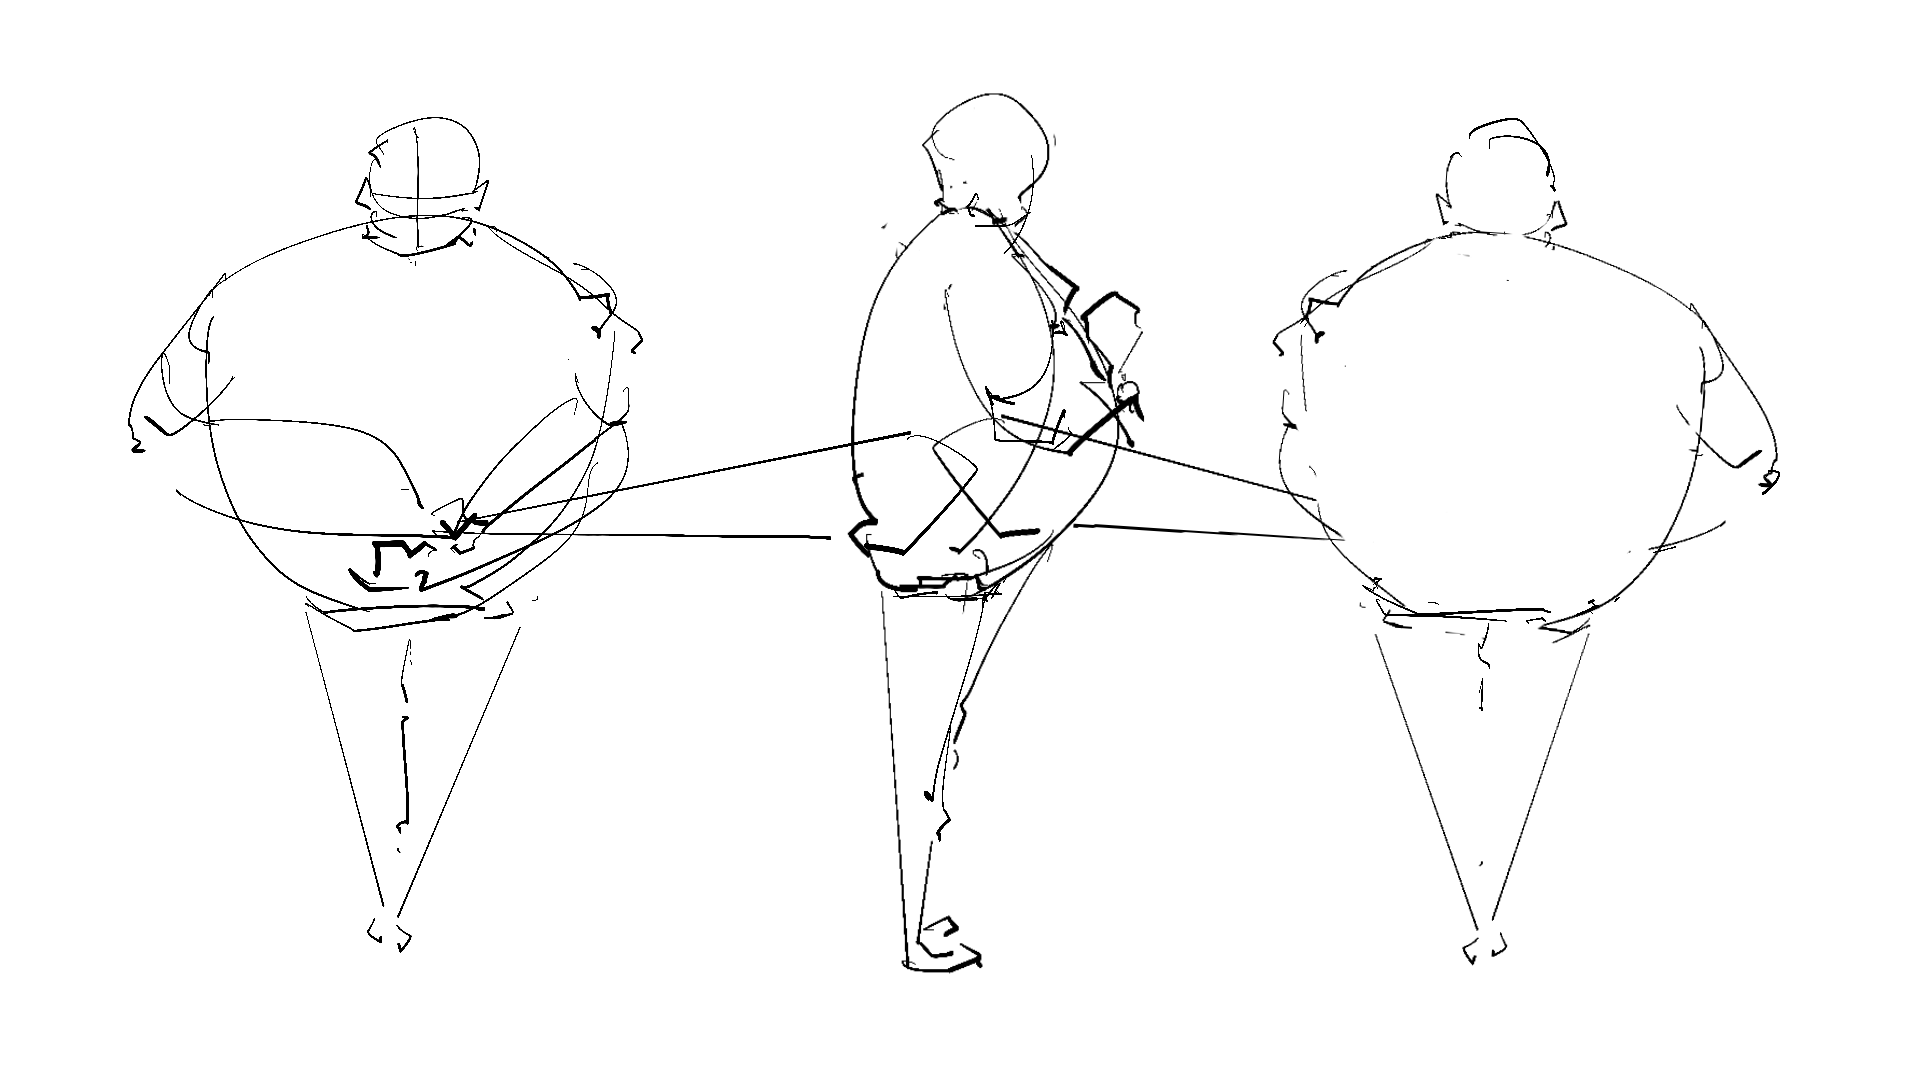
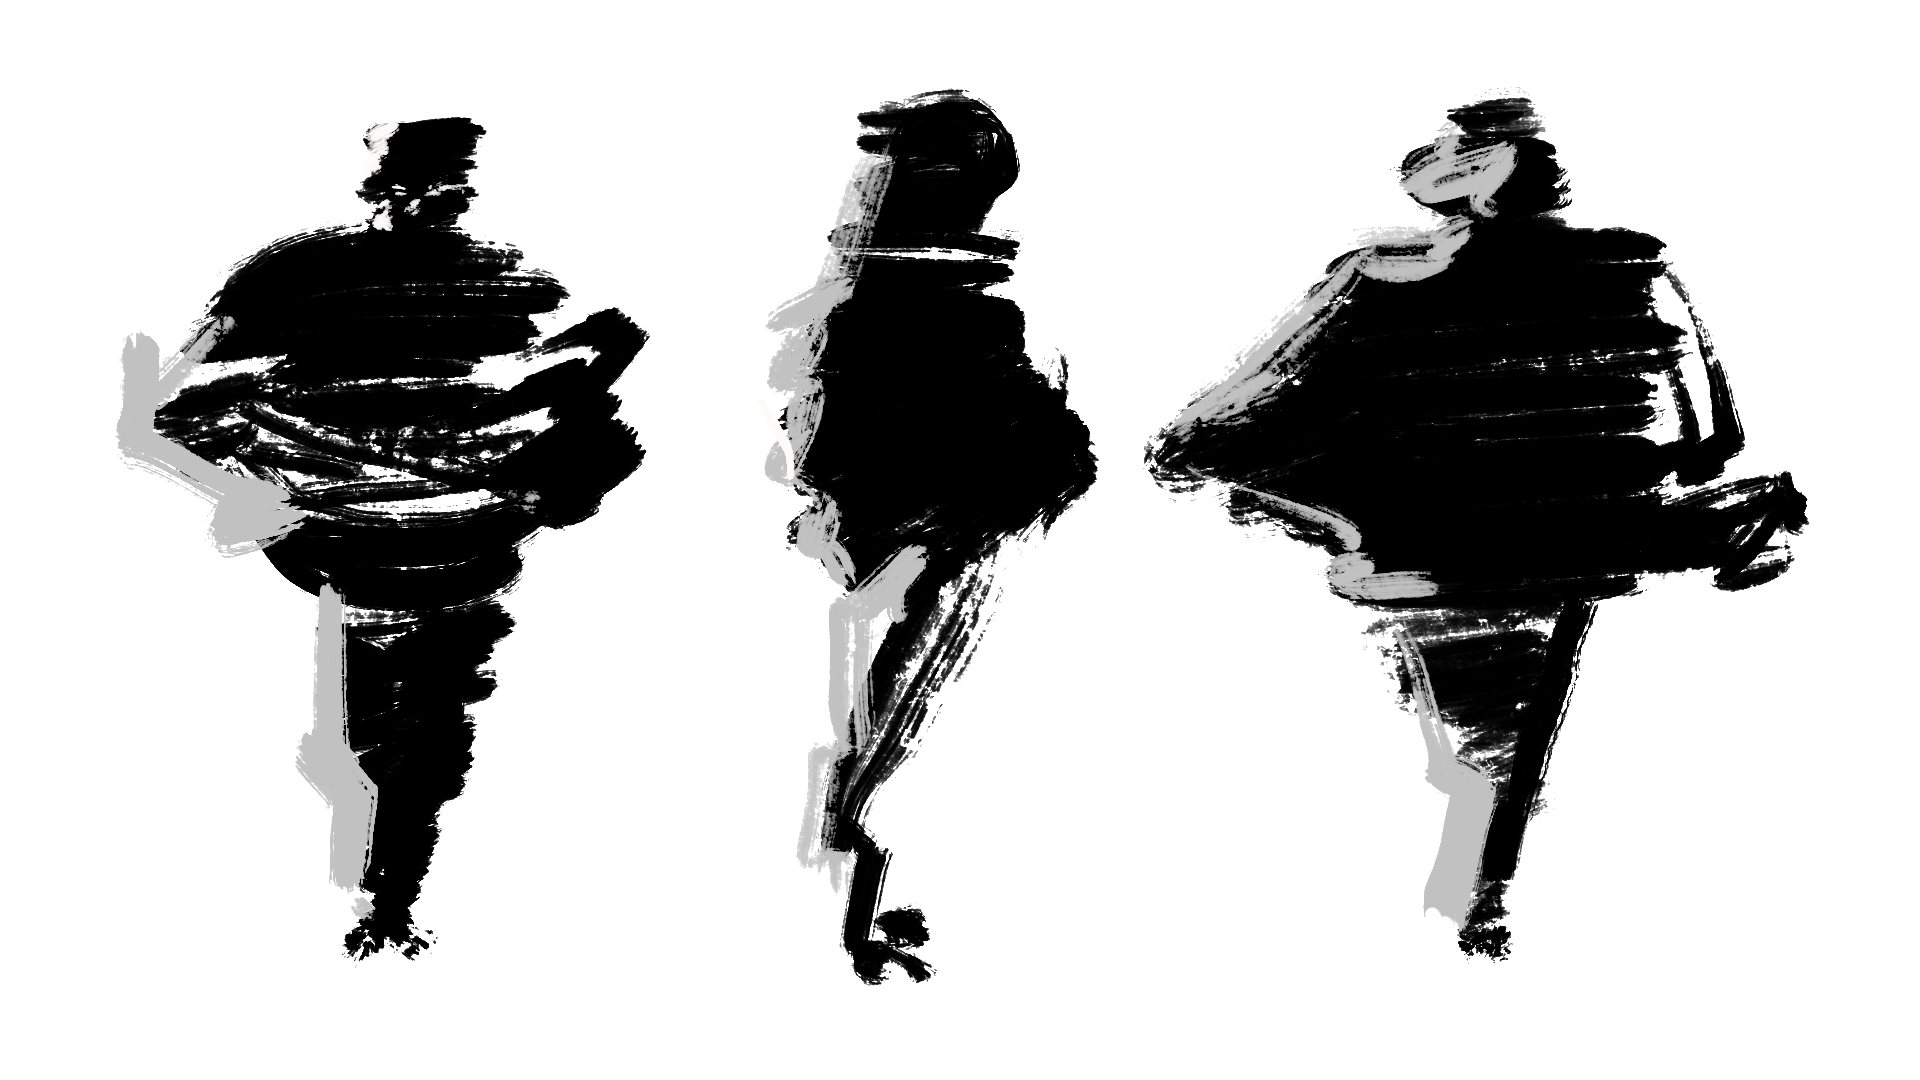
warriors updated with new image

Changed region(s): [[0.375, 0.0611, 0.9688, 0.9167], [0.0625, 0.0917, 0.3438, 0.8861], [0.5938, 0.4889, 0.625, 0.5194]]

diff --git a/src/data/projects.ts b/src/data/projects.ts
@@ -40,8 +40,10 @@ const projects: Project[] = [
         media: [
         { type: "image", src: "/proj/warriors/0.png" },
         { type: "image", src: "/proj/warriors/1.png" },
-        { type: "image", src: "/proj/warriors/11.png" },
         { type: "image", src: "/proj/warriors/22.png" },
+        { type: "image", src: "/proj/warriors/33.png" },
+        { type: "image", src: "/proj/warriors/11.png" },
+    
         
         ]
     },